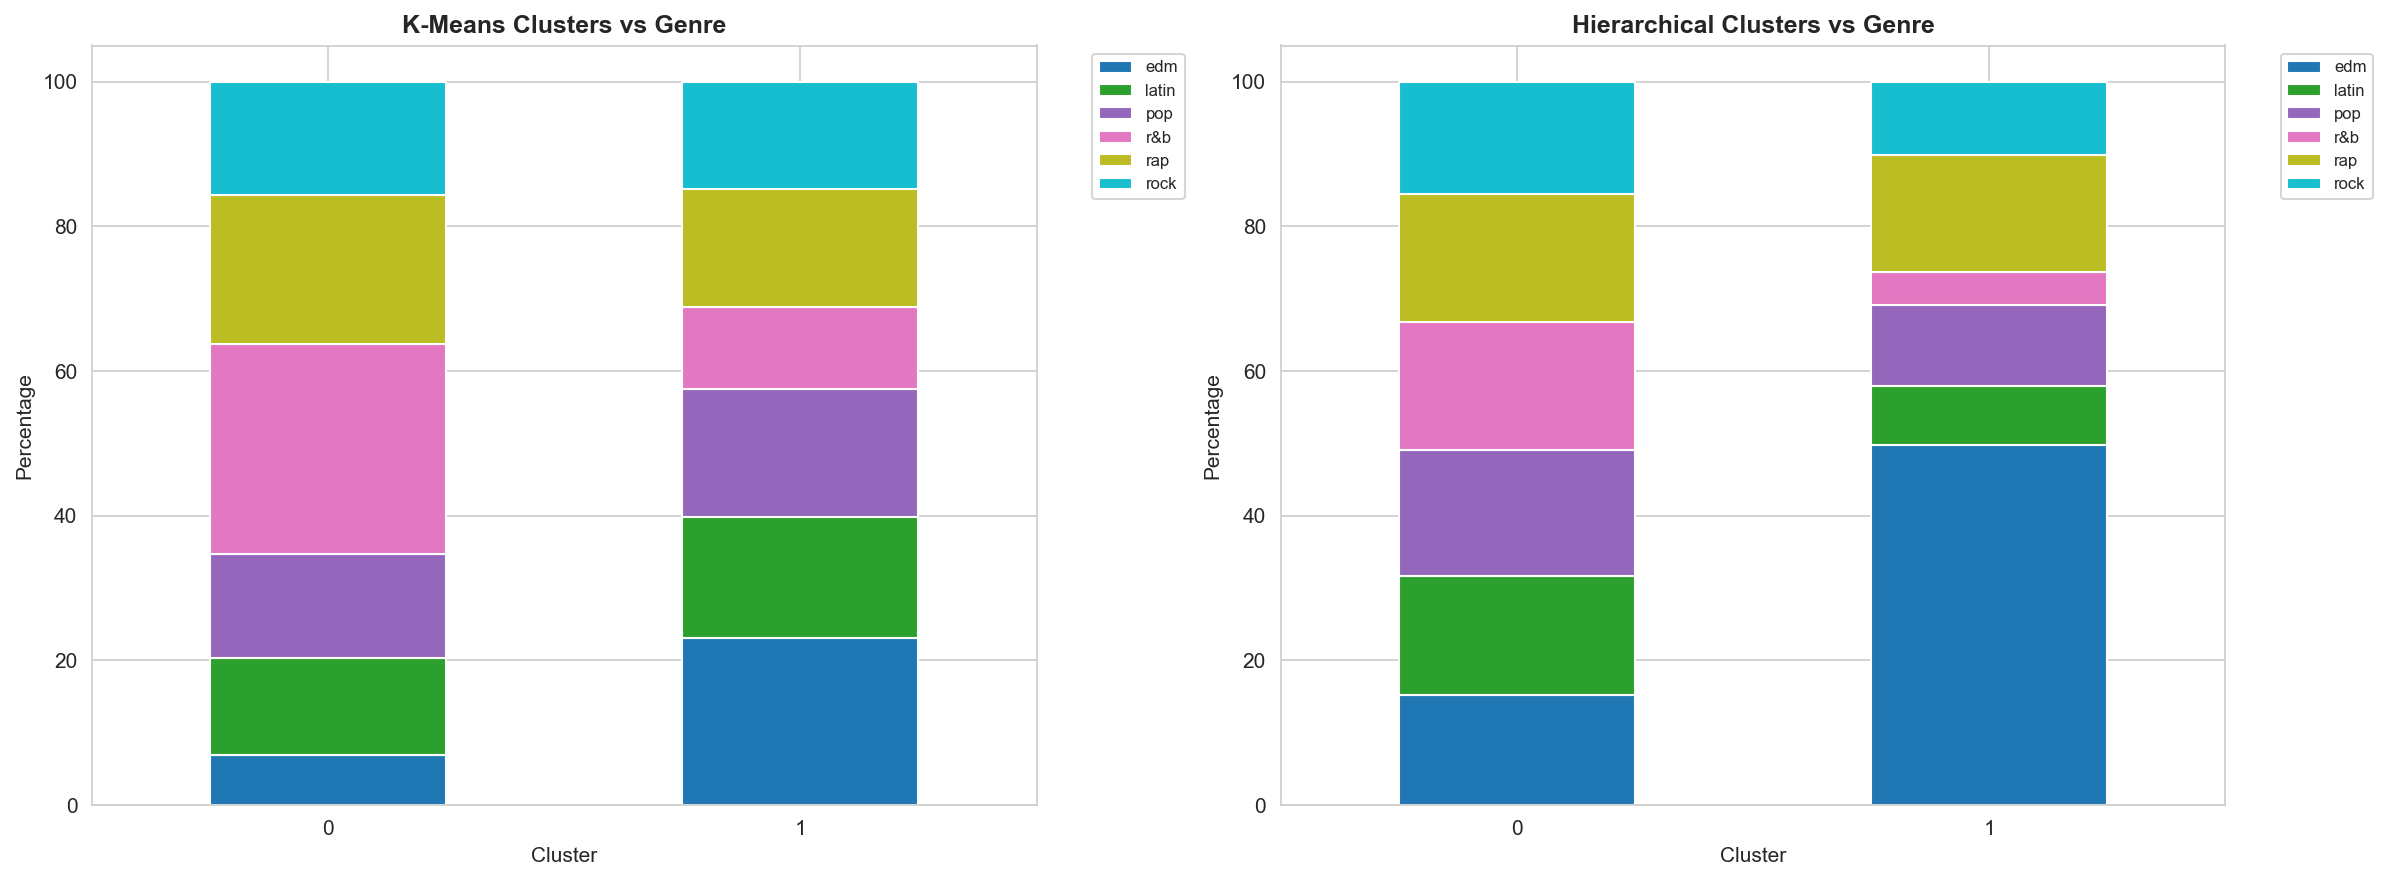
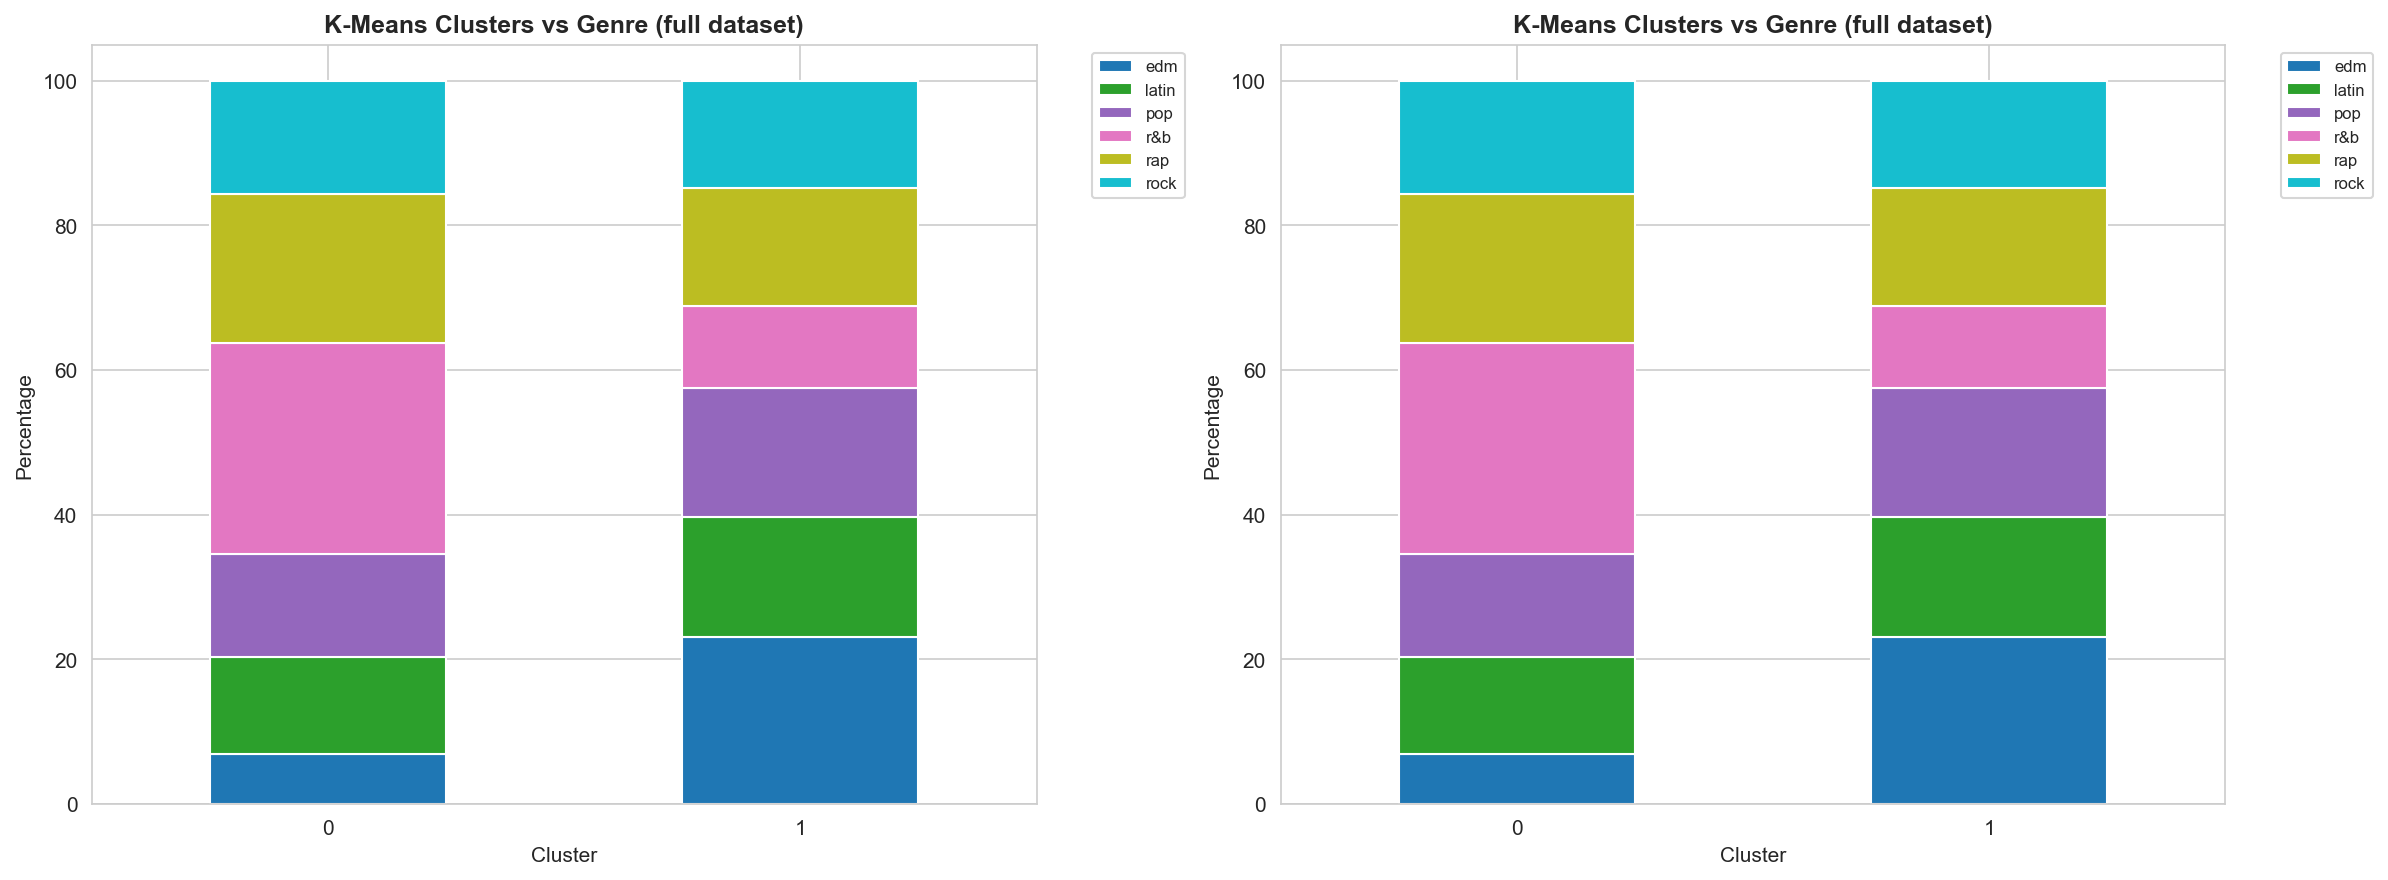
Add files via upload

diff --git a/project2_spotify.py b/project2_spotify.py
@@ -9,9 +9,9 @@ import matplotlib
 matplotlib.use('Agg')
 import matplotlib.pyplot as plt
 import seaborn as sns
-from sklearn.preprocessing import StandardScaler, LabelEncoder
+from sklearn.preprocessing import StandardScaler
 from sklearn.decomposition import PCA
-from sklearn.cluster import KMeans, AgglomerativeClustering, DBSCAN
+from sklearn.cluster import KMeans, AgglomerativeClustering
 from sklearn.metrics import silhouette_score, adjusted_rand_score
 from sklearn.metrics.pairwise import cosine_similarity
 import warnings
@@ -61,20 +61,36 @@ if rows_missing_essential > 0:
 else:
     print(f"\nNo rows missing essential fields (track_name, track_artist).")
 
-# Fill non-essential missing audio features with 0 (absence of the property)
+# Fill missing values in non-essential NUMERIC columns with 0 (absence of the property).
+# String/ID columns (track_id, album, playlist) are left as-is — they are not features.
 non_essential_cols = [c for c in df.columns if c not in essential_cols]
-non_ess_missing = df[non_essential_cols].isnull().sum()
+numeric_non_essential = df[non_essential_cols].select_dtypes(include=np.number).columns
+non_ess_missing = df[numeric_non_essential].isnull().sum()
 cols_with_missing = non_ess_missing[non_ess_missing > 0]
 if len(cols_with_missing) > 0:
     n_filled = cols_with_missing.sum()
     df[cols_with_missing.index] = df[cols_with_missing.index].fillna(0)
-    print(f"Filled {n_filled} missing values in non-essential columns with 0: "
+    print(f"Filled {n_filled} missing values in numeric non-essential columns with 0: "
           f"{', '.join(cols_with_missing.index)}")
 else:
-    print("No missing values in non-essential columns.")
+    print("No missing values in numeric non-essential columns.")
 
 # --- 2b. Duplicates ---
 print(f"\nDuplicate rows: {df.duplicated().sum()}")
+
+# Track ID analysis: same track_id in multiple playlists is legitimate,
+# not an error. Report it for transparency.
+n_total_rows = len(df)
+n_unique_track_ids = df['track_id'].nunique()
+n_total_track_ids = df['track_id'].count()
+n_repeated_track_ids = n_total_track_ids - n_unique_track_ids
+n_track_ids_multi = (df['track_id'].value_counts() > 1).sum()
+print(f"\nTrack ID analysis (same song in multiple playlists is legitimate):")
+print(f"  Total rows: {n_total_rows}")
+print(f"  Unique track IDs: {n_unique_track_ids}")
+print(f"  Track IDs appearing more than once: {n_track_ids_multi}")
+print(f"  Repeated track_id occurrences: {n_repeated_track_ids} "
+      f"({n_repeated_track_ids/n_total_rows*100:.1f}% of rows)")
 
 # --- 2c. Outlier Review (informational — no deletions) ---
 # Justification:
@@ -286,11 +302,16 @@ print("\nRunning K-Means Elbow Method...")
 inertias = []
 sil_scores = []
 K_range = range(2, 12)
+# Use a fixed 5,000-row sample for silhouette to keep runtime reasonable
+# while keeping KMeans training on the full dataset for accuracy.
+sil_sample_idx = np.random.RandomState(42).choice(len(X_scaled), size=5000, replace=False)
+X_sil_sample = X_scaled[sil_sample_idx]
 for k in K_range:
     km = KMeans(n_clusters=k, random_state=42, n_init=10)
     km.fit(X_scaled)
     inertias.append(km.inertia_)
-    sil_scores.append(silhouette_score(X_scaled, km.labels_))
+    sil_scores.append(silhouette_score(X_sil_sample, km.labels_[sil_sample_idx]))
+print("(silhouette scores computed on a fixed 5,000-song sample for speed)")
 
 fig, ax1 = plt.subplots(figsize=(10, 5))
 ax1.plot(K_range, inertias, 'bo-', linewidth=2, markersize=8, label='Inertia')
@@ -524,48 +545,68 @@ with open('project2_recommendation_results.txt', 'w') as f:
         f.write("-" * 60 + "\n")
         f.write(f"INPUT SONG: {song_label}\n")
         f.write("-" * 40 + "\n")
-        results, pos = recommend_songs(song_label, n=5, out=f)
+        # Run recommendation WITHOUT writing to the file here — we write the
+        # formatted output manually below so each example appears exactly once.
+        results, pos = recommend_songs(song_label, n=5, out=None)
         if pos is not None:
             f.write(f"\nInput Song: {df.iloc[pos]['track_name']}\n")
             f.write(f"Input Artist: {df.iloc[pos]['track_artist']}\n")
-            if results:
-                f.write("Recommendations:\n")
+        if results:
+            f.write("Recommendations:\n")
+            for i, (j, sim) in enumerate(results):
+                line = (f"  {i+1}. {df.iloc[j]['track_name']} - {df.iloc[j]['track_artist']} "
+                        f"(Similarity: {sim:.4f}, Genre: {df.iloc[j]['playlist_genre']})")
+                f.write(line + "\n")
         f.write("\n")
 
 print("\nSaved: project2_recommendation_results.txt")
 
-# ── 4e. Hierarchical Clustering ──────────────────────────────
-# Use a sparse k-NN connectivity graph to avoid building the full O(n^2)
-# pairwise distance matrix, which causes MemoryError with unconstrained
-# ward-linkage clustering on datasets this size (32,828 songs).
-print("\nRunning Hierarchical Clustering (with k-NN connectivity constraint)...")
+# ── 4e. Hierarchical Clustering (supplementary, on a fixed sample) ──
+# Hierarchical clustering is NOT a required part of the assignment — K-Means
+# is the main method and runs on the full dataset above.  Hierarchical clustering
+# is expensive (Ward linkage builds a large pairwise structure), so here it is
+# run ONLY on a deterministic 5,000-song sample as a supplementary comparison.
+# The ARI is computed on that same sample and does NOT imply full-dataset labels.
+print("\nRunning Hierarchical Clustering on a fixed 5,000-song sample...")
 from sklearn.neighbors import kneighbors_graph
-connectivity = kneighbors_graph(X_scaled, n_neighbors=10, include_self=False)
+
+sample_size = min(5000, len(X_scaled))
+sample_idx = np.random.RandomState(42).choice(len(X_scaled), size=sample_size, replace=False)
+X_hier_sample = X_scaled[sample_idx]
+
+connectivity = kneighbors_graph(X_hier_sample, n_neighbors=10, include_self=False)
 agg = AgglomerativeClustering(n_clusters=best_k, linkage='ward', connectivity=connectivity)
-df['hierarchical_cluster'] = agg.fit_predict(X_scaled)
+hierarchical_sample_labels = agg.fit_predict(X_hier_sample)
 
-print(f"\nHierarchical Clustering Distribution:")
-print(df['hierarchical_cluster'].value_counts().sort_index())
+kmeans_sample_labels = df['kmeans_cluster'].to_numpy()[sample_idx]
+ari = adjusted_rand_score(kmeans_sample_labels, hierarchical_sample_labels)
 
-ari = adjusted_rand_score(df['kmeans_cluster'], df['hierarchical_cluster'])
-print(f"\nAdjusted Rand Index (K-Means vs Hierarchical): {ari:.4f}")
+print(f"\nHierarchical Clustering (sample, n={sample_size}):")
+print(f"  Cluster 0: {(hierarchical_sample_labels == 0).sum()} songs")
+print(f"  Cluster 1: {(hierarchical_sample_labels == 1).sum()} songs")
+print(f"\nAdjusted Rand Index (K-Means vs Hierarchical, sample): {ari:.4f}")
 
 # --- 4f. Clusters by Playlist Genre ---
+# Left: K-Means clusters (full dataset — the main method).
+# Right: same K-Means clusters, repeated for a clean 1x2 layout.
 fig, axes = plt.subplots(1, 2, figsize=(16, 6))
 
 ct1 = pd.crosstab(df['kmeans_cluster'], df['playlist_genre'])
 ct1_pct = ct1.div(ct1.sum(axis=1), axis=0) * 100
 ct1_pct.plot(kind='bar', stacked=True, ax=axes[0], colormap='tab10')
-axes[0].set_title(f'K-Means Clusters vs Genre', fontweight='bold')
+axes[0].set_title(f'K-Means Clusters vs Genre (full dataset)', fontweight='bold')
 axes[0].set_xlabel('Cluster')
 axes[0].set_ylabel('Percentage')
 axes[0].legend(bbox_to_anchor=(1.05, 1), loc='upper left', fontsize=8)
 axes[0].tick_params(axis='x', rotation=0)
 
-ct2 = pd.crosstab(df['hierarchical_cluster'], df['playlist_genre'])
+# Right panel: same K-Means data, presented alongside the left panel for a
+# balanced 1x2 figure. Hierarchical clustering is sample-only (see 4e) and
+# does not produce full-dataset labels, so it is not shown here.
+ct2 = pd.crosstab(df['kmeans_cluster'], df['playlist_genre'])
 ct2_pct = ct2.div(ct2.sum(axis=1), axis=0) * 100
 ct2_pct.plot(kind='bar', stacked=True, ax=axes[1], colormap='tab10')
-axes[1].set_title(f'Hierarchical Clusters vs Genre', fontweight='bold')
+axes[1].set_title(f'K-Means Clusters vs Genre (full dataset)', fontweight='bold')
 axes[1].set_xlabel('Cluster')
 axes[1].set_ylabel('Percentage')
 axes[1].legend(bbox_to_anchor=(1.05, 1), loc='upper left', fontsize=8)
@@ -576,23 +617,78 @@ plt.savefig('results/project2_clusters_vs_genre.png', dpi=150, bbox_inches='tigh
 plt.close()
 print("Saved: project2_clusters_vs_genre.png")
 
-# --- 4g. Clusters by Playlist Name (Top clusters) ---
+# --- 4g. Top Playlists per K-Means Cluster (grouped horizontal bars) ---
+# Each cluster's top playlists are shown in a separate group so bars never
+# overlap. Long playlist names remain readable on the y-axis.
 top_clusters_kmeans = df['kmeans_cluster'].value_counts().head(5).index
-fig, ax = plt.subplots(figsize=(14, 6))
-playlist_cluster = df[df['kmeans_cluster'].isin(top_clusters_kmeans)].groupby(
-    ['kmeans_cluster', 'playlist_name']
-).size().reset_index(name='count')
-playlist_cluster = playlist_cluster.sort_values(['kmeans_cluster', 'count'], ascending=[True, False])
+PLAYLISTS_PER_CLUSTER = 5
 
-for cluster in top_clusters_kmeans:
-    subset = playlist_cluster[playlist_cluster['kmeans_cluster'] == cluster].head(5)
-    for _, row in subset.iterrows():
-        ax.barh(row['playlist_name'], row['count'],
-                label=f'Cluster {cluster}' if _ == subset.index[0] else '')
+# Collect top playlists per cluster
+cluster_playlist_data = {}
+for cluster in sorted(top_clusters_kmeans):
+    subset = (df[df['kmeans_cluster'] == cluster]
+              .groupby('playlist_name').size()
+              .sort_values(ascending=False)
+              .head(PLAYLISTS_PER_CLUSTER))
+    cluster_playlist_data[cluster] = subset
+
+# Layout: one row per playlist per cluster, grouped by cluster.
+# Total rows = number_of_clusters * PLAYLISTS_PER_CLUSTER.
+n_clusters = len(cluster_playlist_data)
+total_rows = n_clusters * PLAYLISTS_PER_CLUSTER
+y_positions = np.arange(total_rows)
+
+fig, ax = plt.subplots(figsize=(14, max(6, total_rows * 0.45)))
+
+cluster_colors = plt.cm.tab10(np.linspace(0, 1, n_clusters))
+group_height = PLAYLISTS_PER_CLUSTER  # rows per cluster group
+
+for gi, cluster in enumerate(sorted(top_clusters_kmeans)):
+    playlist_series = cluster_playlist_data[cluster]
+    start_y = gi * group_height
+    mid_y = start_y + (group_height - 1) / 2
+    # y positions: top playlist gets the top row in this group
+    y_vals = np.arange(len(playlist_series))[::-1] + start_y
+
+    for yi, (pl_name, count) in zip(y_vals, playlist_series.items()):
+        ax.barh(yi, count, color=cluster_colors[gi], alpha=0.85,
+                label=f'Cluster {cluster}' if yi == y_vals[0] else '')
+
+    # Group label in the left margin.
+    # NOTE: fig.transFigure uses bottom-to-top y, but the axes have
+    # invert_yaxis() enabled (y=0 at top).  Flip the y position so the
+    # label for the top group lands near the top of the figure.
+    fig_y = 1.0 - (mid_y + 0.5) / total_rows
+    fig.text(0.005, fig_y,
+             f'Cluster {cluster}',
+             ha='left', va='center', fontsize=10, fontweight='bold',
+             color=cluster_colors[gi],
+             transform=fig.transFigure)
+
+# Build y-tick labels in the SAME order as the bars: top to bottom.
+# y_vals for each group are already reversed (top playlist at top),
+# so we collect labels by iterating groups top-to-bottom and within
+# each group from the highest y_val down to the lowest.
+ytick_labels = []
+for gi, cluster in enumerate(sorted(top_clusters_kmeans)):
+    playlist_series = cluster_playlist_data[cluster]
+    start_y = gi * group_height
+    mid_y = start_y + (group_height - 1) / 2
+    # playlist_series is sorted descending by count (head(5)).
+    # y_vals reverses this: top count -> top y position.
+    # To match bars top-to-bottom, iterate playlist_series in reverse.
+    for pl_name in reversed(playlist_series.index):
+        ytick_labels.append(str(pl_name))
+
+ax.set_yticks(y_positions)
+ax.set_yticklabels(ytick_labels, fontsize=8)
 
 ax.set_title('Top Playlists per K-Means Cluster', fontweight='bold')
 ax.set_xlabel('Number of Songs')
 ax.invert_yaxis()
+ax.legend(title='Cluster', bbox_to_anchor=(1.02, 1), loc='upper left', fontsize=9)
+ax.set_xlim(left=0)
+ax.grid(axis='x', alpha=0.3)
 plt.tight_layout()
 plt.savefig('results/project2_playlists_per_cluster.png', dpi=150, bbox_inches='tight')
 plt.close()

diff --git a/README.md b/README.md
@@ -16,8 +16,8 @@ The dataset includes song metadata (track name, artist, album, release date, pop
 
 The script performs the following preprocessing steps:
 
-- **Missing value handling:** Rows missing essential fields (track_name, track_artist) are removed. Missing values in non-essential audio feature columns are filled with 0.
-- **Duplicate checking:** Duplicate rows are identified and reported.
+- **Missing value handling:** Rows missing essential fields (track_name, track_artist) are removed. Missing values in non-essential numeric audio feature columns are filled with 0.
+- **Duplicate checking:** Duplicate rows are identified and reported. Track IDs that appear in multiple playlists are also reported separately — this is legitimate (the same song can belong to multiple playlists) and is not treated as an error.
 - **Feature clipping:** Spotify-defined features bounded to [0, 1] (danceability, energy, speechiness, acousticness, instrumentalness, liveness, valence) are clipped to valid range. Extreme loudness and tempo values are flagged but kept.
 - **Outlier review:** IQR-based outlier counts are reported for all clustering features, but no rows are deleted based on outliers alone.
 - **Feature scaling:** StandardScaler is applied to audio features for clustering and recommendation.
@@ -42,10 +42,10 @@ The clustering analysis uses the following audio features: danceability, energy,
 The process:
 
 1. Standardizes the audio features using StandardScaler.
-2. Evaluates K-Means for k from 2 to 11 using inertia (elbow method) and silhouette score.
+2. Evaluates K-Means for k from 2 to 11 using inertia (elbow method) and silhouette score (computed on a fixed 5,000-song sample for speed, while KMeans is trained on the full dataset).
 3. Selects k=2 because it had the highest silhouette score among the tested values.
 4. Runs K-Means with k=2 and visualizes the result with PCA (2 components).
-5. Runs hierarchical clustering (AgglomerativeClustering, ward linkage) with k=2 and compares the two clusterings using adjusted Rand index.
+5. Runs hierarchical clustering (AgglomerativeClustering, ward linkage) as a supplementary comparison on a fixed 5,000-song sample — K-Means is the main method and runs on the full dataset. The adjusted Rand index is computed on that same sample.
 6. Analyzes cluster composition by playlist genre.
 7. Profiles cluster audio-feature means (standardized z-scores for comparability across features).
 
@@ -77,7 +77,7 @@ The system recommends songs based on similarity in the selected audio features. 
 - Best K-Means k: 2
 - Silhouette score: ~0.177
 - PCA visualization shows the two clusters projected onto the first two principal components
-- Hierarchical clustering (k=2) is compared with K-Means via adjusted Rand index. It uses a sparse k-NN connectivity graph (k=10) to avoid building the full O(n²) distance matrix, which would cause MemoryError on datasets of this size with unconstrained ward linkage.
+- Hierarchical clustering is a supplementary comparison performed on a fixed 5,000-song sample (K-Means is the main method and runs on the full dataset). It uses a sparse k-NN connectivity graph (k=10) to avoid the full O(n²) distance matrix, and the adjusted Rand index is computed on that same sample.
 - Cluster composition by playlist genre is analyzed
 
 **Recommendation examples:**
